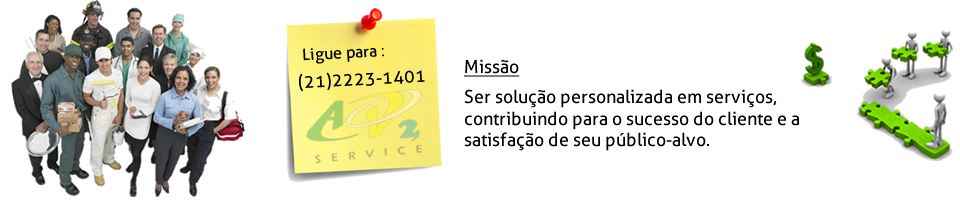
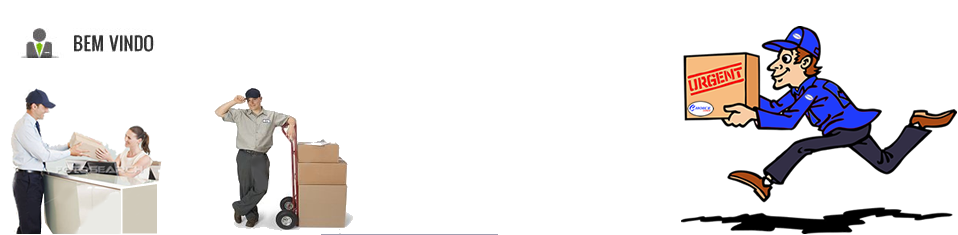
08-01-2012

diff --git a/Sites/ChoiceExpress/css/style.css b/Sites/ChoiceExpress/css/style.css
@@ -17,7 +17,7 @@ body{
 		height:100%;
 		font:'AllerRegular';
 		background-image:url(../imagens/body-bg.jpg);
-		/*background-image:url(../imagens/body1.jpg);*/
+		/*background-image:url(../imagens/bg.jpg);*/
 		}
 
 * html{
@@ -171,7 +171,7 @@ h6{
 ***************************/
 .banner{
 	width:958px;
-	height:200px;
+	height:250px;
     background-image:url(../imagens/banner.png);
 	border-left: 1px dotted #999;
     border-right: 1px dotted #999;
@@ -270,7 +270,7 @@ h6{
 		background-image:url(../imagens/fundo.jpg);
 		border-top:1px dotted #000;
 		position:absolute;
-		/*bottom:0; /*Desativar quando Entrar as outras Telas dos Sistemas */
+		bottom:0; /*Desativar quando Entrar as outras Telas dos Sistemas */
 		}
 
 		.footer_s_left{

diff --git a/Sites/ChoiceExpress/css/960.css b/Sites/ChoiceExpress/css/960.css
@@ -57,7 +57,6 @@
 .barra_menu {
 	margin-left: auto;
 	margin-right: auto;
-	background-image:url(../imagens/header.png);
 }
 
 .content_left{
@@ -68,7 +67,7 @@
 
 .content_right{
 	width:250px;
-	height:300px;
+	/*height:435px;*/
 	float:right;
 	border-right:1px dotted #999;
 	border-left:1px dotted #999;
